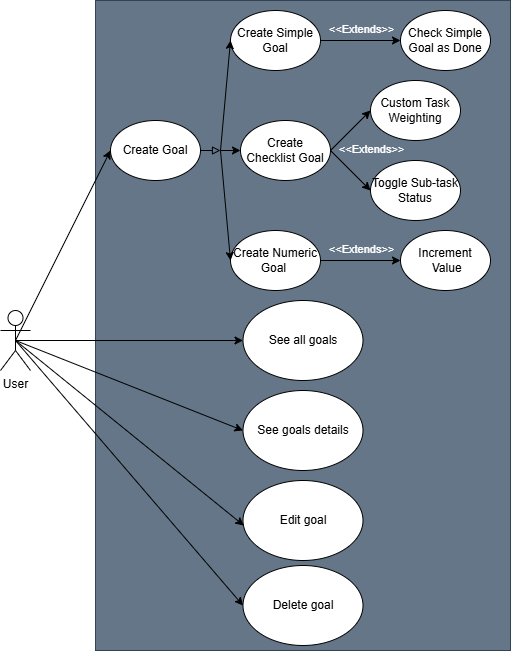
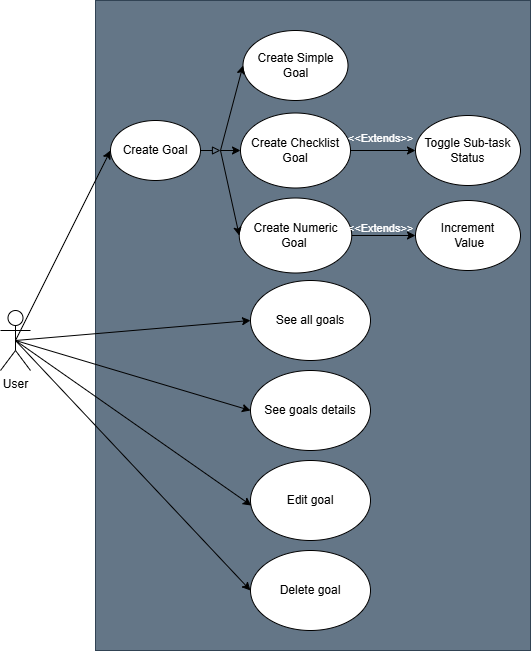
refactor: remove weight field from SubTask, simplify checklist progress and sync docs
Update feature spec and backend to use a subtask toggle for checklist goals. Docs updated (requirements-and-progress.md and drawio diagram) to replace the previous “Custom Task Weighting” item with “Toggle subtask status” and to renumber related FR items. Backend changes in src-tauri (commands/goals.rs and models/goal.rs) implement the corresponding checklist subtask toggle and related goal progress handling so implementation matches the revised requirements.

diff --git a/src-tauri/src/models/goal.rs b/src-tauri/src/models/goal.rs
@@ -20,10 +20,6 @@ pub struct SubTask {
     pub id: String,
     pub title: String,
     pub completed: bool,
-    /// Percentage weight (0.0 - 100.0) of this sub-task toward the goal's
-    /// total progress. Defaults to equal distribution (100 / number_of_subtasks)
-    /// unless customized (FR-06.3.1).
-    pub weight: f32,
 }
 
 /// A single goal tracked by the user.
@@ -54,7 +50,7 @@ pub struct Goal {
 }
 
 impl Goal {
-    /// FR-11: calculates the total completion percentage (0.0 - 100.0)
+    /// Calculates the total completion percentage (0.0 - 100.0)
     /// based on the goal's type.
     pub fn progress_percentage(&self) -> f32 {
         match self.goal_type {
@@ -76,12 +72,10 @@ impl Goal {
             }
             GoalType::Checklist => {
                 match &self.subtasks {
-                    Some(subtasks) if !subtasks.is_empty() => subtasks
-                        .iter()
-                        .filter(|t| t.completed)
-                        .map(|t| t.weight)
-                        .sum::<f32>()
-                        .clamp(0.0, 100.0),
+                    Some(subtasks) if !subtasks.is_empty() => {
+                        let completed = subtasks.iter().filter(|t| t.completed).count();
+                        (completed as f32 / subtasks.len() as f32 * 100.0).clamp(0.0, 100.0)
+                    }
                     _ => 0.0,
                 }
             }

diff --git a/src-tauri/src/commands/goals.rs b/src-tauri/src/commands/goals.rs
@@ -60,7 +60,6 @@ pub fn create_goal(
             let titles = subtask_titles.unwrap_or_default();
             let count = titles.len();
             // FR-06.3: equal distribution by default.
-            let weight = if count > 0 { 100.0 / count as f32 } else { 0.0 };
 
             let subtasks = titles
                 .into_iter()
@@ -68,7 +67,6 @@ pub fn create_goal(
                     id: Uuid::new_v4().to_string(),
                     title,
                     completed: false,
-                    weight,
                 })
                 .collect();
 